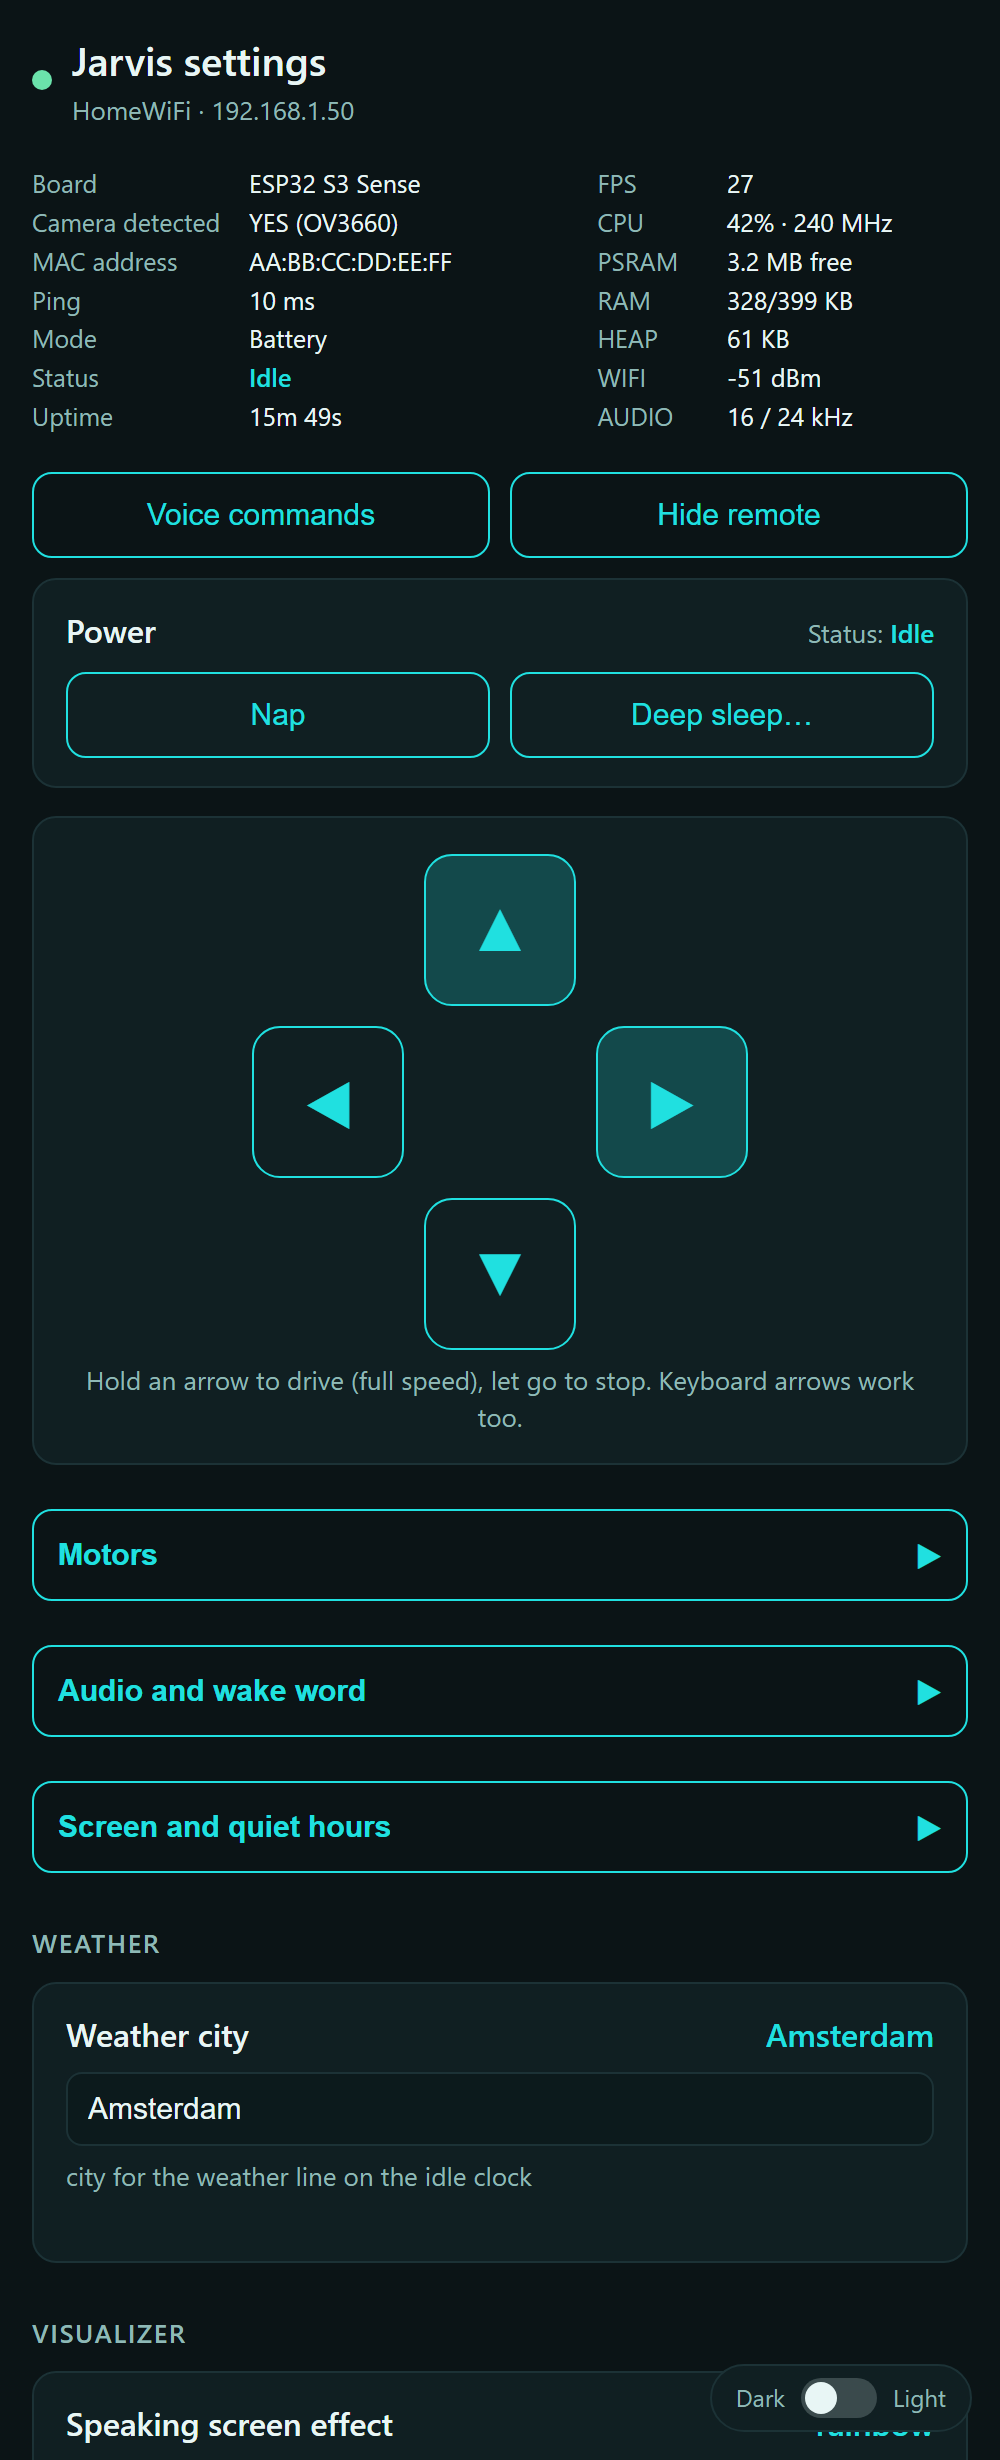
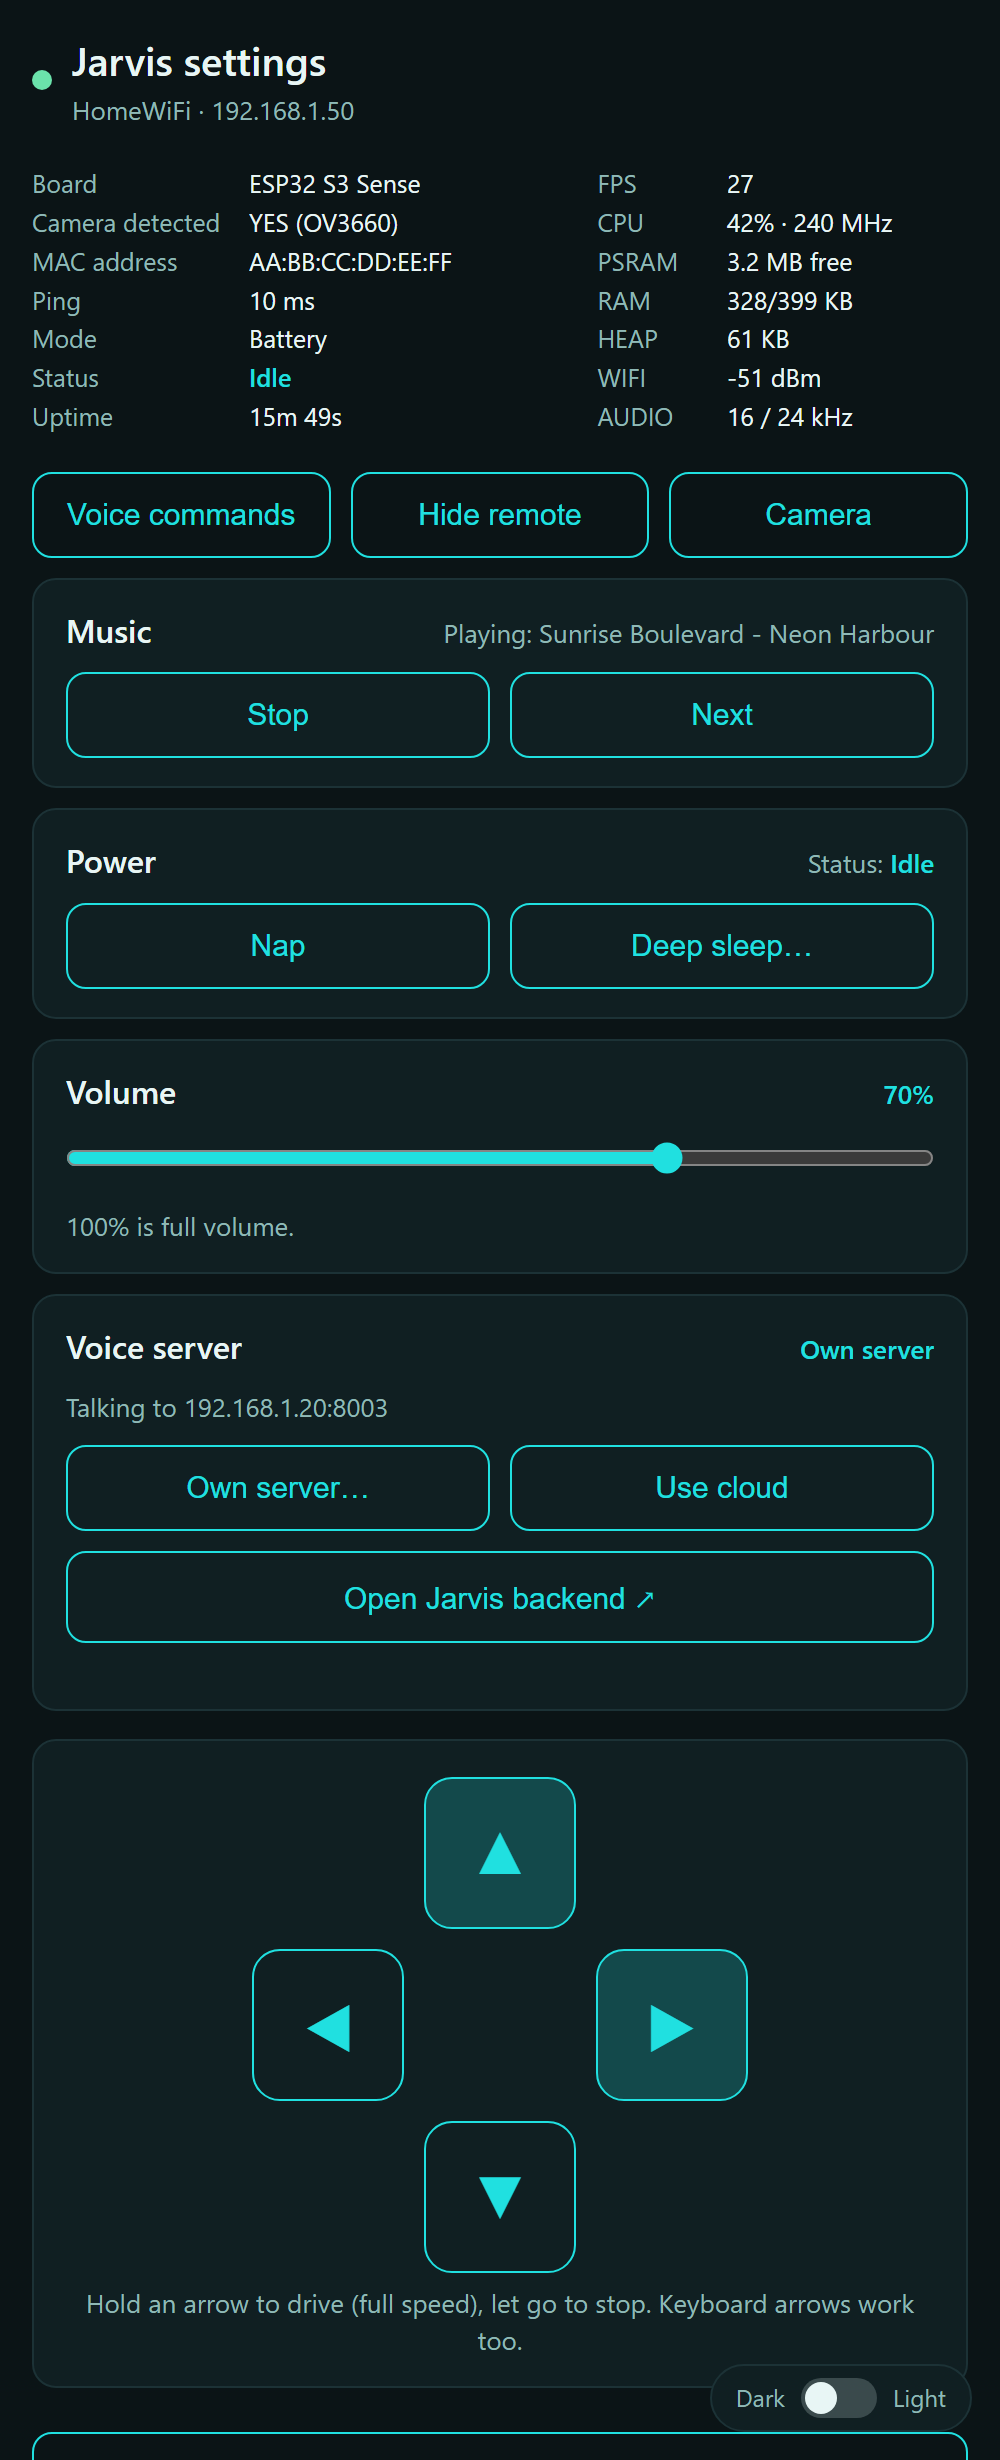
Landing page: Music card header spacing; mock robot plays the backend panel (music card, Stop); new screenshots; API docs for /api/stop and /api/photo

diff --git a/index.html b/index.html
@@ -181,9 +181,9 @@
   #camera { display: none; margin-top: 10px; text-align: center; }
   #camera img { display: none; width: 100%; max-width: 320px; border-radius: 10px; border: 1px solid var(--card-border); margin: 0 auto; }
   #power { margin-top: 10px; }
-  #power .prow, #server .prow { display: flex; justify-content: space-between; align-items: baseline; margin-bottom: 10px; }
-  #power .prow b, #server .prow b { font-weight: 600; }
-  #power .pstate, #server .pstate { color: var(--muted); font-size: 13px; }
+  #power .prow, #server .prow, #music .prow { display: flex; justify-content: space-between; align-items: baseline; margin-bottom: 10px; }
+  #power .prow b, #server .prow b, #music .prow b { font-weight: 600; }
+  #power .pstate, #server .pstate, #music .pstate { color: var(--muted); font-size: 13px; }
   #power .pstate span, #server .pstate span { color: var(--accent); font-weight: 600; }
   #power .pbtns, #server .pbtns { display: flex; gap: 10px; }
   #power .pbtns button, #server .pbtns button { margin-top: 0; }

diff --git a/mock/mock_robot.py b/mock/mock_robot.py
@@ -1,7 +1,7 @@
 #!/usr/bin/env python3
 """A fake Jarvis robot, so the landing page (and the Android app) can be developed without hardware.
 
-    python mock/mock_robot.py [port]        # default port 8080
+    python mock/mock_robot.py [port] [own]  # default port 8080; "own": the robot uses an own backend (and this fake plays that backend's panel, so the Music card shows)
     open http://127.0.0.1:8080/
 
 Serves ../index.html and the same /api/* endpoints as the firmware (see docs/API.md). Settings you
@@ -43,7 +43,7 @@ DEFAULT_SETTINGS = [
 
 DEFAULT_SERVER = "https://api.example.invalid/xiaozhi/ota/"  # stands in for the built-in cloud URL
 STATE = {"settings": copy.deepcopy(DEFAULT_SETTINGS), "napping": False, "started": time.time(), "drive": (0, 0, 0.0),
-         "server": ""}  # "" = built-in default (cloud)
+         "server": "", "playing": True}  # "" = built-in default (cloud)
 
 
 def private_host(host):
@@ -65,6 +65,7 @@ SHOTS = {
     "settings-dark": ("setTheme('dark'); " + HIDE_TOP + " openGroup('Motors'); openGroup('Audio and wake word');", 1180),
     "settings-light": ("setTheme('light'); " + HIDE_TOP + " openGroup('Motors'); openGroup('Screen and quiet hours');", 1180),
     "voice-light": ("setTheme('light'); $('commandsToggle').click();", 1350),
+    "music-dark": ("setTheme('dark'); ['info','power','server'].forEach(function(i){$(i).style.display='none';}); document.querySelector('.toggles').style.display='none';", 520),
 }
 SHOT_PRELUDE = """
 function $(id){return document.getElementById(id);}
@@ -81,7 +82,7 @@ def volume_requested():
     return STATE.get("volume", 70)
 
 
-def status():
+def status(host=""):
     s = STATE
     return {
         "board": "wall-e-xiao/2.5.0", "board_name": "ESP32 S3 Sense", "camera_detected": True, "camera_sensor": "OV3660",
@@ -92,7 +93,8 @@ def status():
         "ram_free_kb": 71, "ram_total_kb": 399, "psram_free_kb": 3300, "psram_total_kb": 8192,
         "server": s["server"] or DEFAULT_SERVER, "server_custom": bool(s["server"]),
         "volume": min(volume_requested(), volume_cap()), "volume_requested": volume_requested(), "volume_cap": volume_cap(),
-        "panel_url": ("http://%s:8090/" % s["server"].split("://")[1].split("/")[0].split(":")[0]) if s["server"] else "",
+        # the real robot points at the backend's control panel; the fake one plays that panel too (see the /music.js and /ha.js routes below)
+        "panel_url": ("http://%s/" % host) if host else "",
     }
 
 
@@ -119,7 +121,14 @@ class Handler(BaseHTTPRequestHandler):
                 html = html.replace("</body>", script + "</body>")
             self._send(html, "text/html; charset=utf-8")
         elif url.path == "/api/status":
-            self._send(json.dumps(status()))
+            self._send(json.dumps(status(self.headers.get("Host", ""))))
+        elif url.path in ("/music.js", "/ha.js", "/pin.js", "/music-do.js"):   # what the backend's control panel would answer (made-up song)
+            now = {"title": "Sunrise Boulevard", "artist": "Neon Harbour"} if STATE["playing"] else None
+            body = {"/music.js": "window.JARVIS_MUSIC = %s;" % json.dumps({"on": True, "now": now}),
+                    "/ha.js": 'window.JARVIS_HA = {"ok": true};',
+                    "/pin.js": 'window.JARVIS_PANEL_PIN = "";',
+                    "/music-do.js": 'window.JARVIS_MUSIC_DO = {"ok": true};'}[url.path]
+            self._send(body, "application/javascript; charset=utf-8")
         elif url.path == "/api/settings":
             self._send(json.dumps(STATE["settings"]))
         elif url.path == "/api/ping":
@@ -188,6 +197,9 @@ class Handler(BaseHTTPRequestHandler):
                 msg = "Server set to " + STATE["server"]
             self._send(json.dumps({"ok": True, "message": msg + " Restarting in 2 s.", "server": STATE["server"] or DEFAULT_SERVER,
                                    "server_custom": bool(STATE["server"])}))
+        elif url.path == "/api/stop":
+            STATE["playing"] = False
+            self._send(json.dumps({"ok": True}))
         elif url.path == "/api/drive":
             STATE["drive"] = (int(q.get("l", ["0"])[0]), int(q.get("r", ["0"])[0]), time.time())
             self._send(b"", "text/plain")
@@ -212,5 +224,7 @@ class Handler(BaseHTTPRequestHandler):
 
 if __name__ == "__main__":
     port = int(sys.argv[1]) if len(sys.argv) > 1 else 8080
+    if len(sys.argv) > 2 and sys.argv[2] == "own":   # as if the robot already talks to an own backend: the page then shows the backend's music and command lists
+        STATE["server"] = "http://192.168.1.20:8003/xiaozhi/ota/"
     print("Fake Jarvis on http://127.0.0.1:%d/  (Ctrl+C to stop)" % port)
     ThreadingHTTPServer(("127.0.0.1", port), Handler).serve_forever()

diff --git a/mock/screenshots.py b/mock/screenshots.py
@@ -42,7 +42,7 @@ def main():
     import mock_robot
 
     os.makedirs(OUT, exist_ok=True)
-    server = subprocess.Popen([sys.executable, os.path.join(HERE, "mock_robot.py"), str(PORT)],
+    server = subprocess.Popen([sys.executable, os.path.join(HERE, "mock_robot.py"), str(PORT), "own"],
                               stdout=subprocess.DEVNULL, stderr=subprocess.DEVNULL)
     time.sleep(1.2)
     try:

diff --git a/README.md b/README.md
@@ -13,6 +13,13 @@ libraries, no internet needed), and it talks to the robot through a small JSON A
 | <img src="docs/screenshots/landing-top-dark.png" width="260"> | <img src="docs/screenshots/landing-remote-dark.png" width="260"> | <img src="docs/screenshots/landing-settings-dark.png" width="260"> |
 | <img src="docs/screenshots/landing-power-light.png" width="260"> | <img src="docs/screenshots/landing-voice-light.png" width="260"> | <img src="docs/screenshots/landing-settings-light.png" width="260"> |
 
+With an own backend (Voice server card) the page also shows the backend's **Music** card (title, Stop, Next) while its music player is on, and the music, radio and
+Home Assistant command lists (each in its own colour):
+
+| Music card |
+|---|
+| <img src="docs/screenshots/landing-music-dark.png" width="260"> |
+
 (Screenshots come from the fake robot in `mock/`, with made-up data. The page follows the phone's dark or
 light setting; the slider at the bottom right switches it.)
 

diff --git a/docs/API.md b/docs/API.md
@@ -20,6 +20,8 @@ deep sleep. Replies are `application/json` unless noted. `<ip>` is the robot's a
 | POST | `/api/power` | Nap, wake up, deep sleep |
 | POST | `/api/volume` | Set the speaker volume (the requested volume; the cap from the settings still applies) |
 | POST | `/api/server` | Choose the voice server: the xiaozhi.me cloud or an own server on the LAN |
+| POST | `/api/stop` | Stop what Jarvis is saying or playing (a song, a radio stream) at once; the page's Stop button |
+| POST | `/api/photo` | One JPEG from the camera (`503` with a text reason when there is no camera, or while napping); the page's Camera button |
 
 ## GET /api/status
 
